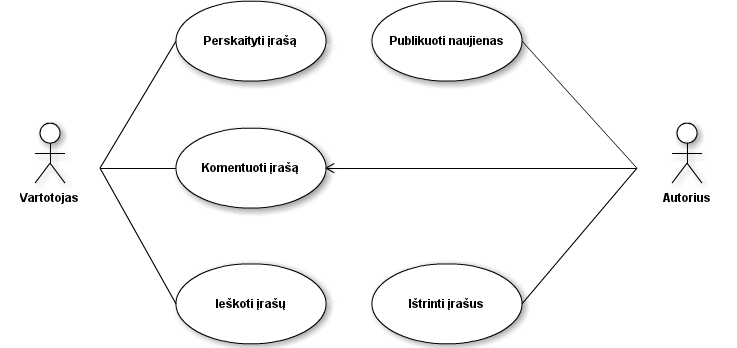
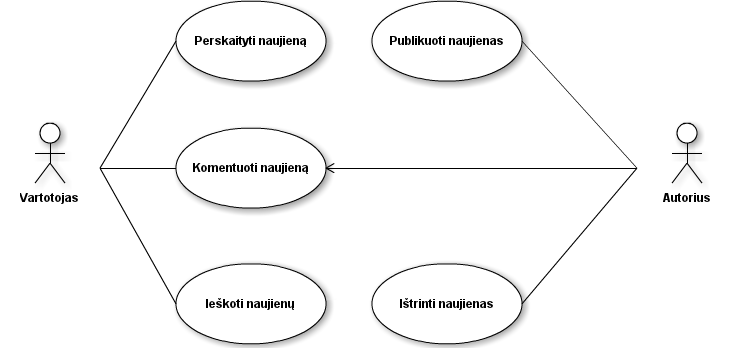
Įvairūs pataisymai

diff --git a/projektas/2.2_vidine_analize.md b/projektas/2.2_vidine_analize.md
@@ -14,7 +14,7 @@ Nagrinėjame internetinių įrašų ir naujienų skaitymo būdus. Pagrindiniai i
 
 **Vartotojas:** Klientas, sąveikaujantis su sistema ir tinklaraščiais, juose skaitantis naujienas.
 
-**Naujiena:** šaltinyje ar tinklaraštyje publikuojamas tekstinis įrašas.
+**Naujiena:** RSS šaltinyje ar tinklaraštyje publikuojamas tekstinis įrašas.
 
 **RSS Generatorius (šaltinis):** Modulis, generuojantis RSS šaltinį iš naujienų šaltinyje esančių naujienų.
 
@@ -28,7 +28,7 @@ Nagrinėjame internetinių įrašų ir naujienų skaitymo būdus. Pagrindiniai i
 
 \begin{figure}[ht]
     \centering
-    \includegraphics[width=1.05\textwidth]{projektas/img/uzduotys_1_lygis.png}
+    \includegraphics[width=0.6\textwidth]{projektas/img/uzduotys_1_lygis.png}
     \caption{Užduotys}
 \end{figure}
 

diff --git a/projektas/x_terminu_zodynelis.md b/projektas/x_terminu_zodynelis.md
@@ -1,7 +1,5 @@
 # Terminų žodynėlis
 
-**RSS Procesorius:** bla bla bla...
-
 **Atom standartas:** http://www.w3.org/2005/Atom
 
 **Tikslinė auditorija:** ...
